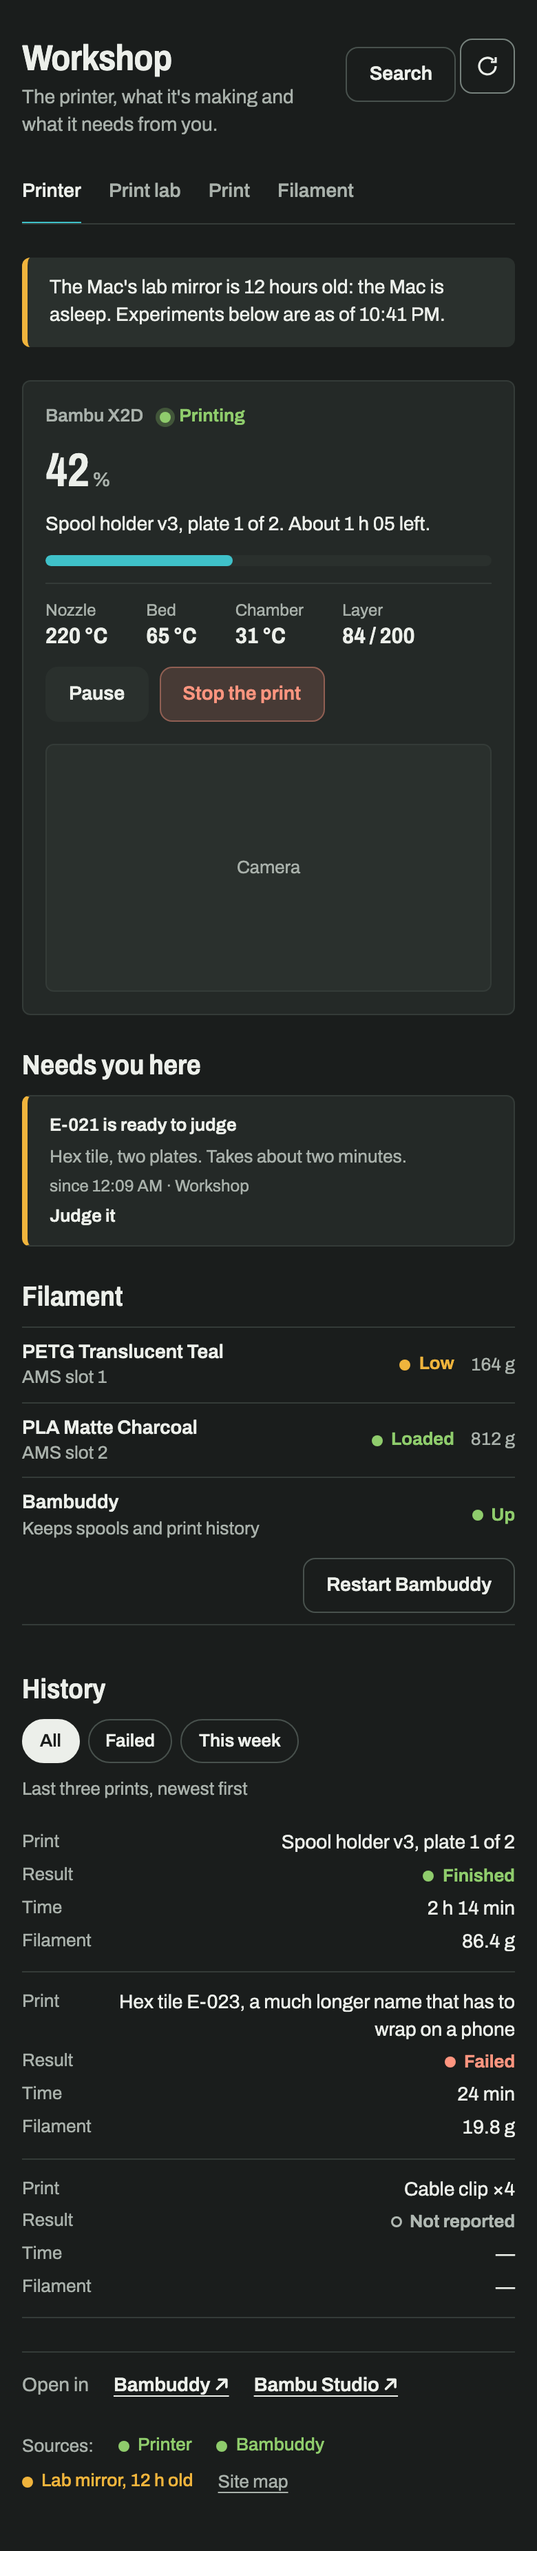
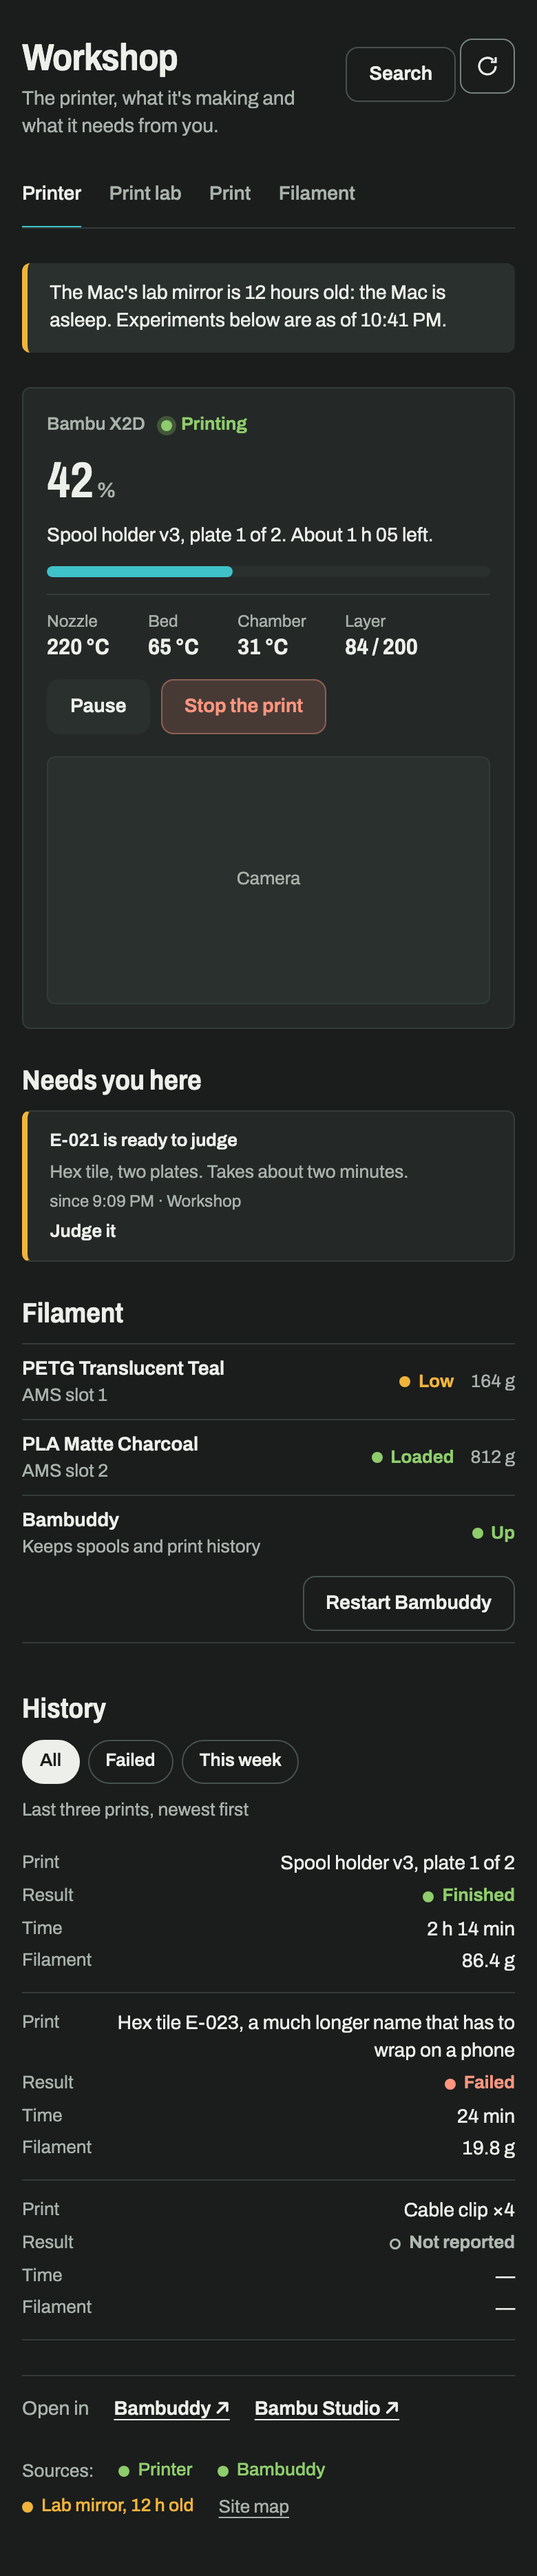
feat(kit): one fluid scale and container layouts; kit 2.9.0 (Pi Hub A10, P1)
Type, space and header tokens are rem, and tokens.css sets the root on one
curve: 100% at a 360 px window to 125% at 1920 px. tokens.h keeps its px.
The kit's window switches go: the faceplate aside by an intrinsic grid,
Needs you and ui-table--stack by container queries, the page title, readout
and faceplate padding by clamp(), the palette by viewport units.

diff --git a/dist/components.css b/dist/components.css
@@ -1,4 +1,4 @@
-/* generated by appliance-ui v2.8.0 from tokens.json — do not edit; change appliance-ui and sync */
+/* generated by appliance-ui v2.9.0 from tokens.json — do not edit; change appliance-ui and sync */
 /* Shared components. Only --ui-* variables: the look comes from tokens.css.
    Faceplate: panels are flat housings with a low radius; controls are rounder, like keys; readouts are the one loud thing. */
 .ui-btn{display:inline-flex;align-items:center;justify-content:center;gap:6px;min-height:40px;padding:0 16px;border-radius:var(--ui-r-3);border:1px solid transparent;font:600 var(--ui-fs-3)/1 var(--ui-font);cursor:pointer;text-decoration:none;color:var(--ui-text);background:var(--ui-surface-2)}
@@ -82,7 +82,8 @@
 .ui-faceplate__readings dd{margin:0;font:650 var(--ui-fs-4)/1.3 var(--ui-font);font-stretch:var(--ui-stretch-heading);font-variant-numeric:tabular-nums}
 .ui-faceplate__actions{display:flex;flex-wrap:wrap;gap:calc(var(--ui-space)*2)}
 .ui-faceplate__aside{min-width:0}
-@media (min-width:760px){.ui-faceplate--aside{grid-template-columns:minmax(0,1.25fr) minmax(0,1fr)}}
+/* A10 D2: the aside goes beside the main part where both get 20 rem, and under it where they don't. */
+.ui-faceplate--aside{grid-template-columns:repeat(auto-fit,minmax(min(100%,20rem),1fr))}
 /* A section: a heading and rows on the page, no card. */
 .ui-section{display:grid;gap:calc(var(--ui-space)*2.5);min-width:0}
 .ui-section>h2{margin:0;font:650 var(--ui-fs-5)/1.2 var(--ui-font);font-stretch:var(--ui-stretch-heading);color:var(--ui-text)}
@@ -119,9 +120,14 @@
 .ui-table :is(th,td):last-child{padding-right:0}
 .ui-table__num{text-align:right;font-variant-numeric:tabular-nums;white-space:nowrap}
 .ui-table th.ui-table__num{text-align:right}
-@media (max-width:599px){.ui-table--stack,.ui-table--stack caption,.ui-table--stack tbody,.ui-table--stack tr,.ui-table--stack td{display:block}.ui-table--stack thead{position:absolute;width:1px;height:1px;overflow:hidden;clip-path:inset(50%);white-space:nowrap}.ui-table--stack tr{padding:calc(var(--ui-space)*2.5) 0;border-bottom:1px solid var(--ui-line)}.ui-table--stack td{display:flex;justify-content:space-between;gap:calc(var(--ui-space)*3);padding:calc(var(--ui-space)*0.5) 0;border:0;text-align:right}.ui-table--stack td[data-label]::before{content:attr(data-label);flex:none;white-space:nowrap;color:var(--ui-muted);font-size:var(--ui-fs-2);text-align:left}.ui-table--stack .ui-table__num{white-space:normal}}
+/* A10 D2: a stacked table goes row by row when its container is narrower than about 37.5 rem, so it needs one: put it
+   in a ui-cq (or any element with container-type). */
+.ui-cq{container-type:inline-size}
+@container (max-width:37.4375rem){.ui-table--stack,.ui-table--stack caption,.ui-table--stack tbody,.ui-table--stack tr,.ui-table--stack td{display:block}.ui-table--stack thead{position:absolute;width:1px;height:1px;overflow:hidden;clip-path:inset(50%);white-space:nowrap}.ui-table--stack tr{padding:calc(var(--ui-space)*2.5) 0;border-bottom:1px solid var(--ui-line)}.ui-table--stack td{display:flex;justify-content:space-between;gap:calc(var(--ui-space)*3);padding:calc(var(--ui-space)*0.5) 0;border:0;text-align:right}.ui-table--stack td[data-label]::before{content:attr(data-label);flex:none;white-space:nowrap;color:var(--ui-muted);font-size:var(--ui-fs-2);text-align:left}.ui-table--stack .ui-table__num{white-space:normal}}
 @media (pointer:coarse){.ui-chips :is(a,button){min-height:44px}}
-@media (max-width:599px){.ui-page{gap:calc(var(--ui-space)*6)}.ui-page__title{font-size:var(--ui-fs-6)}.ui-faceplate{padding:calc(var(--ui-space)*4)}.ui-faceplate .ui-readout{font-size:var(--ui-fs-7)}}
+/* A10 D1: the page's gap, title, faceplate padding and readout grow from their phone size at a 360 px window to their
+   full size by about 600 px, instead of switching there. */
+.ui-page{gap:clamp(calc(var(--ui-space)*6),0.75rem + 3.33vw,calc(var(--ui-space)*7))}.ui-page__title{font-size:clamp(var(--ui-fs-6),0.875rem + 3.33vw,var(--ui-fs-7))}.ui-faceplate{padding:clamp(calc(var(--ui-space)*4),0.25rem + 3.33vw,calc(var(--ui-space)*5))}.ui-faceplate .ui-readout{font-size:clamp(var(--ui-fs-7),0.53rem + 7.08vw,calc(var(--ui-fs-7)*1.5))}
 :where(.ui-btn,.ui-field,a,button):focus-visible{outline:2px solid var(--ui-accent);outline-offset:2px}
 /* A touch screen gets 44 px targets (2.5.0). */
 @media (pointer:coarse){.ui-btn,.ui-field{min-height:44px}}

diff --git a/src/components.css b/src/components.css
@@ -81,7 +81,8 @@
 .ui-faceplate__readings dd{margin:0;font:650 var(--ui-fs-4)/1.3 var(--ui-font);font-stretch:var(--ui-stretch-heading);font-variant-numeric:tabular-nums}
 .ui-faceplate__actions{display:flex;flex-wrap:wrap;gap:calc(var(--ui-space)*2)}
 .ui-faceplate__aside{min-width:0}
-@media (min-width:760px){.ui-faceplate--aside{grid-template-columns:minmax(0,1.25fr) minmax(0,1fr)}}
+/* A10 D2: the aside goes beside the main part where both get 20 rem, and under it where they don't. */
+.ui-faceplate--aside{grid-template-columns:repeat(auto-fit,minmax(min(100%,20rem),1fr))}
 /* A section: a heading and rows on the page, no card. */
 .ui-section{display:grid;gap:calc(var(--ui-space)*2.5);min-width:0}
 .ui-section>h2{margin:0;font:650 var(--ui-fs-5)/1.2 var(--ui-font);font-stretch:var(--ui-stretch-heading);color:var(--ui-text)}
@@ -118,9 +119,14 @@
 .ui-table :is(th,td):last-child{padding-right:0}
 .ui-table__num{text-align:right;font-variant-numeric:tabular-nums;white-space:nowrap}
 .ui-table th.ui-table__num{text-align:right}
-@media (max-width:599px){.ui-table--stack,.ui-table--stack caption,.ui-table--stack tbody,.ui-table--stack tr,.ui-table--stack td{display:block}.ui-table--stack thead{position:absolute;width:1px;height:1px;overflow:hidden;clip-path:inset(50%);white-space:nowrap}.ui-table--stack tr{padding:calc(var(--ui-space)*2.5) 0;border-bottom:1px solid var(--ui-line)}.ui-table--stack td{display:flex;justify-content:space-between;gap:calc(var(--ui-space)*3);padding:calc(var(--ui-space)*0.5) 0;border:0;text-align:right}.ui-table--stack td[data-label]::before{content:attr(data-label);flex:none;white-space:nowrap;color:var(--ui-muted);font-size:var(--ui-fs-2);text-align:left}.ui-table--stack .ui-table__num{white-space:normal}}
+/* A10 D2: a stacked table goes row by row when its container is narrower than about 37.5 rem, so it needs one: put it
+   in a ui-cq (or any element with container-type). */
+.ui-cq{container-type:inline-size}
+@container (max-width:37.4375rem){.ui-table--stack,.ui-table--stack caption,.ui-table--stack tbody,.ui-table--stack tr,.ui-table--stack td{display:block}.ui-table--stack thead{position:absolute;width:1px;height:1px;overflow:hidden;clip-path:inset(50%);white-space:nowrap}.ui-table--stack tr{padding:calc(var(--ui-space)*2.5) 0;border-bottom:1px solid var(--ui-line)}.ui-table--stack td{display:flex;justify-content:space-between;gap:calc(var(--ui-space)*3);padding:calc(var(--ui-space)*0.5) 0;border:0;text-align:right}.ui-table--stack td[data-label]::before{content:attr(data-label);flex:none;white-space:nowrap;color:var(--ui-muted);font-size:var(--ui-fs-2);text-align:left}.ui-table--stack .ui-table__num{white-space:normal}}
 @media (pointer:coarse){.ui-chips :is(a,button){min-height:44px}}
-@media (max-width:599px){.ui-page{gap:calc(var(--ui-space)*6)}.ui-page__title{font-size:var(--ui-fs-6)}.ui-faceplate{padding:calc(var(--ui-space)*4)}.ui-faceplate .ui-readout{font-size:var(--ui-fs-7)}}
+/* A10 D1: the page's gap, title, faceplate padding and readout grow from their phone size at a 360 px window to their
+   full size by about 600 px, instead of switching there. */
+.ui-page{gap:clamp(calc(var(--ui-space)*6),0.75rem + 3.33vw,calc(var(--ui-space)*7))}.ui-page__title{font-size:clamp(var(--ui-fs-6),0.875rem + 3.33vw,var(--ui-fs-7))}.ui-faceplate{padding:clamp(calc(var(--ui-space)*4),0.25rem + 3.33vw,calc(var(--ui-space)*5))}.ui-faceplate .ui-readout{font-size:clamp(var(--ui-fs-7),0.53rem + 7.08vw,calc(var(--ui-fs-7)*1.5))}
 :where(.ui-btn,.ui-field,a,button):focus-visible{outline:2px solid var(--ui-accent);outline-offset:2px}
 /* A touch screen gets 44 px targets (2.5.0). */
 @media (pointer:coarse){.ui-btn,.ui-field{min-height:44px}}

diff --git a/dist/tokens.css b/dist/tokens.css
@@ -1,7 +1,7 @@
-/* generated by appliance-ui v2.8.0 from tokens.json — do not edit; change appliance-ui and sync */
+/* generated by appliance-ui v2.9.0 from tokens.json — do not edit; change appliance-ui and sync */
 @font-face{font-family:Archivo;src:url(archivo-latin-ui.woff2) format("woff2");font-weight:400 750;font-stretch:75% 100%;font-display:swap}
-:root{--ui-font:Archivo, system-ui, -apple-system, "Segoe UI", sans-serif;--ui-mono:ui-monospace, "SF Mono", Menlo, Consolas, monospace;--ui-stretch-heading:87.5%;--ui-stretch-readout:75%;--ui-fs-1:12px;--ui-fs-2:13px;--ui-fs-3:14px;--ui-fs-4:16px;--ui-fs-5:20px;--ui-fs-6:26px;--ui-fs-7:34px;--ui-r-1:4px;--ui-r-2:6px;--ui-r-3:9px;--ui-r-4:14px;--ui-space:4px;--ui-header-h:48px;--ui-header-total:calc(var(--ui-header-h) + env(safe-area-inset-top, 0px));--ui-bg:#1a1d1c;--ui-bar:#1f2321;--ui-surface:#242927;--ui-surface-2:#2a302d;--ui-line:#343b38;--ui-line-2:#48514d;--ui-field-line:#76817c;--ui-text:#ecefea;--ui-muted:#a9b1ab;--ui-accent:#3fc1c9;--ui-accent-text:#63d1d7;--ui-on-accent:#062a2d;--ui-accent-soft:rgba(63,193,201,.14);--ui-ok:#8fcc6c;--ui-warn:#f0b43c;--ui-bad:#ff957f;--ui-unknown:#b0b8b2;color-scheme:dark;}
+:root{--ui-font:Archivo, system-ui, -apple-system, "Segoe UI", sans-serif;--ui-mono:ui-monospace, "SF Mono", Menlo, Consolas, monospace;--ui-stretch-heading:87.5%;--ui-stretch-readout:75%;--ui-fs-1:0.75rem;--ui-fs-2:0.8125rem;--ui-fs-3:0.875rem;--ui-fs-4:1rem;--ui-fs-5:1.25rem;--ui-fs-6:1.625rem;--ui-fs-7:2.125rem;--ui-r-1:4px;--ui-r-2:6px;--ui-r-3:9px;--ui-r-4:14px;--ui-space:0.25rem;--ui-header-h:2.75rem;--ui-header-total:calc(var(--ui-header-h) + env(safe-area-inset-top, 0px));--ui-bg:#1a1d1c;--ui-bar:#1f2321;--ui-surface:#242927;--ui-surface-2:#2a302d;--ui-line:#343b38;--ui-line-2:#48514d;--ui-field-line:#76817c;--ui-text:#ecefea;--ui-muted:#a9b1ab;--ui-accent:#3fc1c9;--ui-accent-text:#63d1d7;--ui-on-accent:#062a2d;--ui-accent-soft:rgba(63,193,201,.14);--ui-ok:#8fcc6c;--ui-warn:#f0b43c;--ui-bad:#ff957f;--ui-unknown:#b0b8b2;color-scheme:dark;}
 @media (prefers-color-scheme: light){:root:not([data-theme="dark"]){--ui-bg:#f2f3f1;--ui-bar:#fbfbfa;--ui-surface:#ffffff;--ui-surface-2:#eaece9;--ui-line:#d9ddda;--ui-line-2:#c1c7c3;--ui-field-line:#7a8480;--ui-text:#161a18;--ui-muted:#4f5853;--ui-accent:#0b7a83;--ui-accent-text:#08666d;--ui-on-accent:#ffffff;--ui-accent-soft:rgba(11,122,131,.10);--ui-ok:#29610f;--ui-warn:#775000;--ui-bad:#9c2b1b;--ui-unknown:#4e5752;color-scheme:light;}}
 [data-theme="light"]{--ui-bg:#f2f3f1;--ui-bar:#fbfbfa;--ui-surface:#ffffff;--ui-surface-2:#eaece9;--ui-line:#d9ddda;--ui-line-2:#c1c7c3;--ui-field-line:#7a8480;--ui-text:#161a18;--ui-muted:#4f5853;--ui-accent:#0b7a83;--ui-accent-text:#08666d;--ui-on-accent:#ffffff;--ui-accent-soft:rgba(11,122,131,.10);--ui-ok:#29610f;--ui-warn:#775000;--ui-bad:#9c2b1b;--ui-unknown:#4e5752;color-scheme:light;}
 [data-theme="dark"]{--ui-bg:#1a1d1c;--ui-bar:#1f2321;--ui-surface:#242927;--ui-surface-2:#2a302d;--ui-line:#343b38;--ui-line-2:#48514d;--ui-field-line:#76817c;--ui-text:#ecefea;--ui-muted:#a9b1ab;--ui-accent:#3fc1c9;--ui-accent-text:#63d1d7;--ui-on-accent:#062a2d;--ui-accent-soft:rgba(63,193,201,.14);--ui-ok:#8fcc6c;--ui-warn:#f0b43c;--ui-bad:#ff957f;--ui-unknown:#b0b8b2;color-scheme:dark;}
-@media (max-width:719px){:root{--ui-header-h:44px;}}
+html{font-size:clamp(100%, 0.9423rem + 0.2564vw, 125%)}

diff --git a/dist/palette.css b/dist/palette.css
@@ -1,5 +1,5 @@
-/* generated by appliance-ui v2.8.0 from tokens.json — do not edit; change appliance-ui and sync */
-.ui-palette{box-sizing:border-box;width:min(640px,calc(100vw - 32px));max-height:min(560px,calc(100dvh - 32px));margin:12vh auto auto;padding:0;border:1px solid var(--ui-line);border-radius:var(--ui-r-3);background:var(--ui-surface);color:var(--ui-text);font:400 var(--ui-fs-3)/1.4 var(--ui-font);overflow:hidden}
+/* generated by appliance-ui v2.9.0 from tokens.json — do not edit; change appliance-ui and sync */
+.ui-palette{box-sizing:border-box;width:min(40rem,calc(100vw - 2*var(--ui-palette-gutter)));max-height:min(35rem,calc(100dvh - var(--ui-palette-top) - var(--ui-palette-gutter)));margin:var(--ui-palette-top) auto auto;padding:0;border:1px solid var(--ui-line);border-radius:var(--ui-r-3);background:var(--ui-surface);color:var(--ui-text);font:400 var(--ui-fs-3)/1.4 var(--ui-font);overflow:hidden}
 .ui-palette::backdrop{background:rgb(0 0 0 / .5)}
 .ui-palette[open]{display:flex;flex-direction:column}
 .ui-palette__box{display:flex;flex-direction:column;min-height:0;flex:1}
@@ -13,7 +13,9 @@
 .ui-palette__down,.ui-palette__empty{display:flex;align-items:center;min-height:44px;padding:0 calc(var(--ui-space)*3);color:var(--ui-muted);font-size:var(--ui-fs-2)}
 .ui-palette__down::before{content:"";flex:none;width:8px;height:8px;margin-right:calc(var(--ui-space)*2);border-radius:50%;background:var(--ui-warn)}
 .ui-palette__status{flex:none;margin:0;padding:calc(var(--ui-space)*2) calc(var(--ui-space)*4);border-top:1px solid var(--ui-line);color:var(--ui-muted);font-size:var(--ui-fs-1);min-height:1.4em}
-@media (max-width:760px){.ui-palette{margin:calc(env(safe-area-inset-top,0px) + 8px) auto auto;width:calc(100vw - 16px);max-height:calc(100dvh - 16px - env(safe-area-inset-top,0px))}}
+/* A10 D2: the palette is sized against the window it floats over, smoothly: a 8-16 px gutter, and a top margin from
+   8 px on a phone to 12% of the height on a desktop. */
+.ui-palette{--ui-palette-gutter:clamp(8px,2vw,16px);--ui-palette-top:calc(env(safe-area-inset-top,0px) + max(8px,min(12vh,6vw)))}
 @media (prefers-reduced-motion:no-preference){.ui-palette[open]{animation:ui-palette-in .14s ease-out}.ui-palette[open]::backdrop{animation:ui-palette-fade .14s ease-out}}
 @keyframes ui-palette-in{from{opacity:0;transform:translateY(-6px)}to{opacity:1;transform:none}}
 @keyframes ui-palette-fade{from{opacity:0}to{opacity:1}}

diff --git a/src/palette.css b/src/palette.css
@@ -1,4 +1,4 @@
-.ui-palette{box-sizing:border-box;width:min(640px,calc(100vw - 32px));max-height:min(560px,calc(100dvh - 32px));margin:12vh auto auto;padding:0;border:1px solid var(--ui-line);border-radius:var(--ui-r-3);background:var(--ui-surface);color:var(--ui-text);font:400 var(--ui-fs-3)/1.4 var(--ui-font);overflow:hidden}
+.ui-palette{box-sizing:border-box;width:min(40rem,calc(100vw - 2*var(--ui-palette-gutter)));max-height:min(35rem,calc(100dvh - var(--ui-palette-top) - var(--ui-palette-gutter)));margin:var(--ui-palette-top) auto auto;padding:0;border:1px solid var(--ui-line);border-radius:var(--ui-r-3);background:var(--ui-surface);color:var(--ui-text);font:400 var(--ui-fs-3)/1.4 var(--ui-font);overflow:hidden}
 .ui-palette::backdrop{background:rgb(0 0 0 / .5)}
 .ui-palette[open]{display:flex;flex-direction:column}
 .ui-palette__box{display:flex;flex-direction:column;min-height:0;flex:1}
@@ -12,7 +12,9 @@
 .ui-palette__down,.ui-palette__empty{display:flex;align-items:center;min-height:44px;padding:0 calc(var(--ui-space)*3);color:var(--ui-muted);font-size:var(--ui-fs-2)}
 .ui-palette__down::before{content:"";flex:none;width:8px;height:8px;margin-right:calc(var(--ui-space)*2);border-radius:50%;background:var(--ui-warn)}
 .ui-palette__status{flex:none;margin:0;padding:calc(var(--ui-space)*2) calc(var(--ui-space)*4);border-top:1px solid var(--ui-line);color:var(--ui-muted);font-size:var(--ui-fs-1);min-height:1.4em}
-@media (max-width:760px){.ui-palette{margin:calc(env(safe-area-inset-top,0px) + 8px) auto auto;width:calc(100vw - 16px);max-height:calc(100dvh - 16px - env(safe-area-inset-top,0px))}}
+/* A10 D2: the palette is sized against the window it floats over, smoothly: a 8-16 px gutter, and a top margin from
+   8 px on a phone to 12% of the height on a desktop. */
+.ui-palette{--ui-palette-gutter:clamp(8px,2vw,16px);--ui-palette-top:calc(env(safe-area-inset-top,0px) + max(8px,min(12vh,6vw)))}
 @media (prefers-reduced-motion:no-preference){.ui-palette[open]{animation:ui-palette-in .14s ease-out}.ui-palette[open]::backdrop{animation:ui-palette-fade .14s ease-out}}
 @keyframes ui-palette-in{from{opacity:0;transform:translateY(-6px)}to{opacity:1;transform:none}}
 @keyframes ui-palette-fade{from{opacity:0}to{opacity:1}}

diff --git a/dist/needs.css b/dist/needs.css
@@ -1,5 +1,5 @@
-/* generated by appliance-ui v2.8.0 from tokens.json — do not edit; change appliance-ui and sync */
-.ui-needs{list-style:none;margin:0;padding:0;display:grid;gap:calc(var(--ui-space)*2)}
+/* generated by appliance-ui v2.9.0 from tokens.json — do not edit; change appliance-ui and sync */
+.ui-needs{list-style:none;margin:0;padding:0;display:grid;gap:calc(var(--ui-space)*2);container:ui-needs/inline-size}
 .ui-need{background:var(--ui-surface);border:1px solid var(--ui-line);border-left:4px solid var(--ui-muted);border-radius:var(--ui-r-2);min-height:44px;box-sizing:border-box;color:var(--ui-text);font:400 var(--ui-fs-2)/1.4 var(--ui-font)}
 .ui-need[data-tone="bad"]{border-left-color:var(--ui-bad)}
 .ui-need[data-tone="attention"]{border-left-color:var(--ui-warn)}
@@ -10,7 +10,8 @@ a.ui-need__link:hover .ui-need__action{text-decoration:underline}
 .ui-need__detail{display:block;color:var(--ui-muted);font-size:var(--ui-fs-2);overflow-wrap:anywhere}
 .ui-need__meta{display:block;color:var(--ui-muted);font-size:var(--ui-fs-1)}
 .ui-need__action{display:block;color:var(--ui-text);font-weight:600;font-size:var(--ui-fs-2)}
-@media (min-width:600px){
+/* A10 D2: the action goes beside the text when the list is at least 34 rem wide. */
+@container ui-needs (min-width:34rem){
 .ui-need__link{grid-template-columns:minmax(0,1fr) auto;column-gap:calc(var(--ui-space)*4)}
 .ui-need__title,.ui-need__detail,.ui-need__meta{grid-column:1}
 .ui-need__action{grid-column:2;grid-row:1/span 3;align-self:center;white-space:nowrap}

diff --git a/src/needs.css b/src/needs.css
@@ -1,4 +1,4 @@
-.ui-needs{list-style:none;margin:0;padding:0;display:grid;gap:calc(var(--ui-space)*2)}
+.ui-needs{list-style:none;margin:0;padding:0;display:grid;gap:calc(var(--ui-space)*2);container:ui-needs/inline-size}
 .ui-need{background:var(--ui-surface);border:1px solid var(--ui-line);border-left:4px solid var(--ui-muted);border-radius:var(--ui-r-2);min-height:44px;box-sizing:border-box;color:var(--ui-text);font:400 var(--ui-fs-2)/1.4 var(--ui-font)}
 .ui-need[data-tone="bad"]{border-left-color:var(--ui-bad)}
 .ui-need[data-tone="attention"]{border-left-color:var(--ui-warn)}
@@ -9,7 +9,8 @@ a.ui-need__link:hover .ui-need__action{text-decoration:underline}
 .ui-need__detail{display:block;color:var(--ui-muted);font-size:var(--ui-fs-2);overflow-wrap:anywhere}
 .ui-need__meta{display:block;color:var(--ui-muted);font-size:var(--ui-fs-1)}
 .ui-need__action{display:block;color:var(--ui-text);font-weight:600;font-size:var(--ui-fs-2)}
-@media (min-width:600px){
+/* A10 D2: the action goes beside the text when the list is at least 34 rem wide. */
+@container ui-needs (min-width:34rem){
 .ui-need__link{grid-template-columns:minmax(0,1fr) auto;column-gap:calc(var(--ui-space)*4)}
 .ui-need__title,.ui-need__detail,.ui-need__meta{grid-column:1}
 .ui-need__action{grid-column:2;grid-row:1/span 3;align-self:center;white-space:nowrap}

diff --git a/dist/tools.js b/dist/tools.js
@@ -1,4 +1,4 @@
-// generated by appliance-ui v2.8.0 from tools.json — do not edit; change appliance-ui and sync
+// generated by appliance-ui v2.9.0 from tools.json — do not edit; change appliance-ui and sync
 // The house's tools: TOOLS lists them; toolUrl(id, path) gives a link, or null for an id that isn't one.
 // A tool marked external is not behind the house's gate (Plex's own web app); its host and base are another company's.
 // toolsFor(area) is an area's "Open in …↗" row, without the display's D4 hosts (machine-facing, not for people).

diff --git a/dist/needs.js b/dist/needs.js
@@ -1,4 +1,4 @@
-// generated by appliance-ui v2.8.0 from tokens.json — do not edit; change appliance-ui and sync
+// generated by appliance-ui v2.9.0 from tokens.json — do not edit; change appliance-ui and sync
 // ApplianceNeeds: draws the "Needs you" list the same way in every app. Item data goes in through textContent only.
 // renderList option dense: true makes one-line rows (no source line) for tight tiles.
 // item: {id, source, tone: "bad"|"attention"|"warn", title, detail, link?, action?: {key, link}, urgent?, as_of?, area?}

diff --git a/demo/page.html b/demo/page.html
@@ -55,7 +55,7 @@
     </ul>
     <p id="done" role="status"></p>
   </section>
-  <section class="ui-section" aria-labelledby="hist-h">
+  <section class="ui-section ui-cq" aria-labelledby="hist-h">
     <h2 id="hist-h">History</h2>
     <div class="ui-chips" role="group" aria-label="Show"><button type="button" aria-pressed="true">All</button><button type="button" aria-pressed="false">Failed</button><button type="button" aria-pressed="false">This week</button></div>
     <table class="ui-table ui-table--stack" id="prints" role="table">

diff --git a/dist/confirm.js b/dist/confirm.js
@@ -1,4 +1,4 @@
-// generated by appliance-ui v2.8.0 from tokens.json — do not edit; change appliance-ui and sync
+// generated by appliance-ui v2.9.0 from tokens.json — do not edit; change appliance-ui and sync
 // ApplianceConfirm: a risky action asks first, in place (2.6.0, Pi Hub amendment A7 P7). No dialog: a line opens under the
 // button saying what will happen, with the button's verb again and Cancel. Text goes in through textContent only.
 //

diff --git a/dist/palette.js b/dist/palette.js
@@ -1,4 +1,4 @@
-// generated by appliance-ui v2.8.0 from tokens.json — do not edit; change appliance-ui and sync
+// generated by appliance-ui v2.9.0 from tokens.json — do not edit; change appliance-ui and sync
 // AppliancePalette: the one ⌘K palette (platform spec section 8.1). Each app registers its own providers; there is no
 // central search, so Pi Hub works while the PC sleeps and the Assistant works without the Pi.
 //
